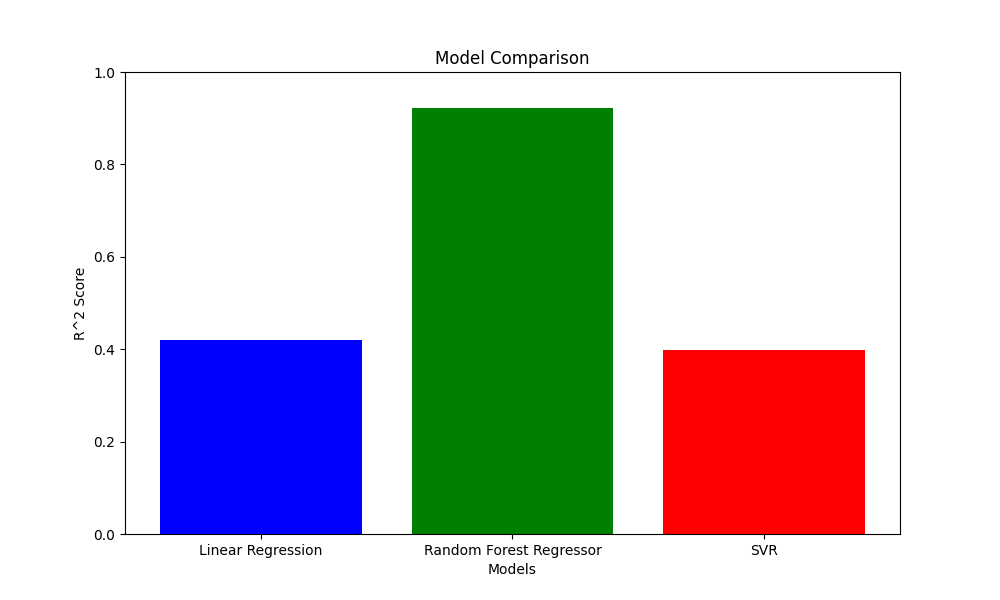
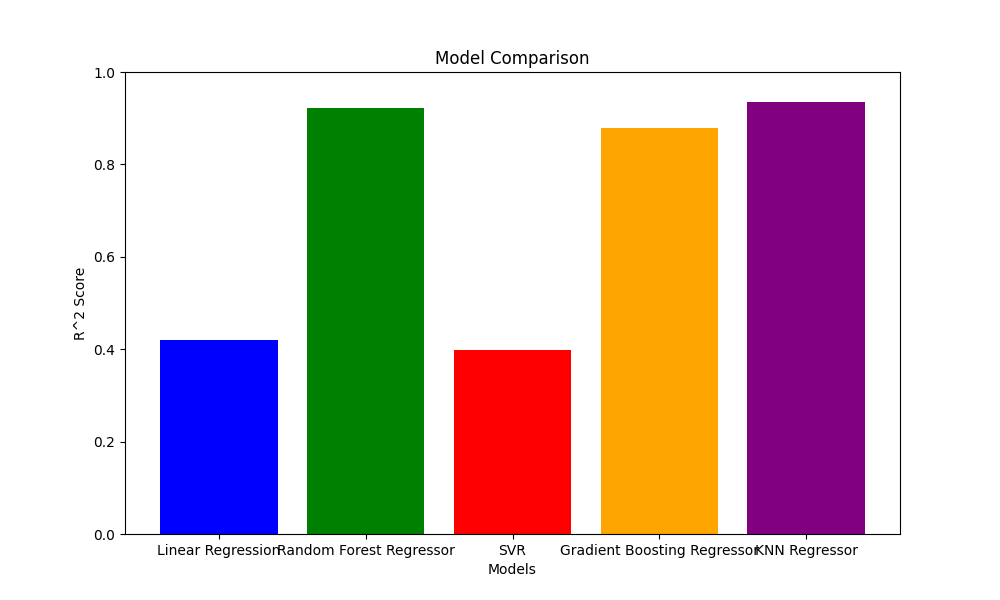
Improve accuracy comparison

diff --git a/utils/custom_training.py b/utils/custom_training.py
@@ -181,12 +181,14 @@ class CustomTraining:
         lr_score = self.train_linear_regression()
         rf_score = self.train_random_forest_regressor()
         svr_score = self.train_svr()
+        gradient_boosting_score = self.train_gradient_boosting_regressor()
+        knn_score = self.train_knn_regressor()
         
-        models = ['Linear Regression', 'Random Forest Regressor', 'SVR']
-        scores = [lr_score, rf_score, svr_score]
+        models = ['Linear Regression', 'Random Forest Regressor', 'SVR', 'Gradient Boosting Regressor', 'KNN Regressor']
+        scores = [lr_score, rf_score, svr_score, gradient_boosting_score, knn_score]
         
         plt.figure(figsize=(10, 6))
-        plt.bar(models, scores, color=['blue', 'green', 'red'])
+        plt.bar(models, scores, color=['blue', 'green', 'red', 'orange', 'purple'])
         plt.xlabel('Models')
         plt.ylabel('R^2 Score')
         plt.title('Model Comparison')

diff --git a/main.py b/main.py
@@ -47,3 +47,5 @@ print("Score: ", str(score))
 
 gpa = custom_training.model_prediction([[1700]])
 print("GPA: ", str(gpa[0]))
+
+custom_training.compare_model_accuracies()
